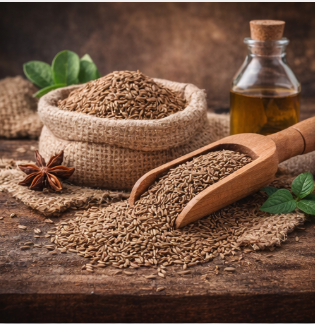
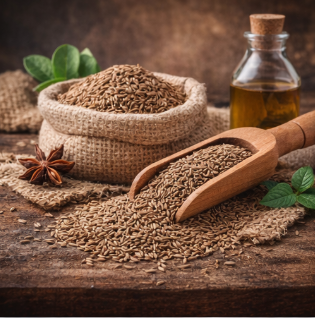
Images added

diff --git a/frontend/app/products/page.tsx b/frontend/app/products/page.tsx
@@ -38,9 +38,9 @@ export default function ProductsPage() {
   return (
     <>
       {/* HERO */}
-      <div className="relative h-[50vh]">
+      <div className="relative h-[40vh]">
         <Image
-          src="/hero-2.jpg"
+          src="/hero2.jpeg"
           alt="Products hero"
           fill
           className="object-cover"
@@ -63,7 +63,7 @@ export default function ProductsPage() {
               key={p.title}
               className="glass card-hover overflow-hidden rounded-2xl"
             >
-              <div className="relative h-52">
+              <div className="relative h-56 w-full">
                 <Image
                   src={p.img}
                   alt={p.title}
